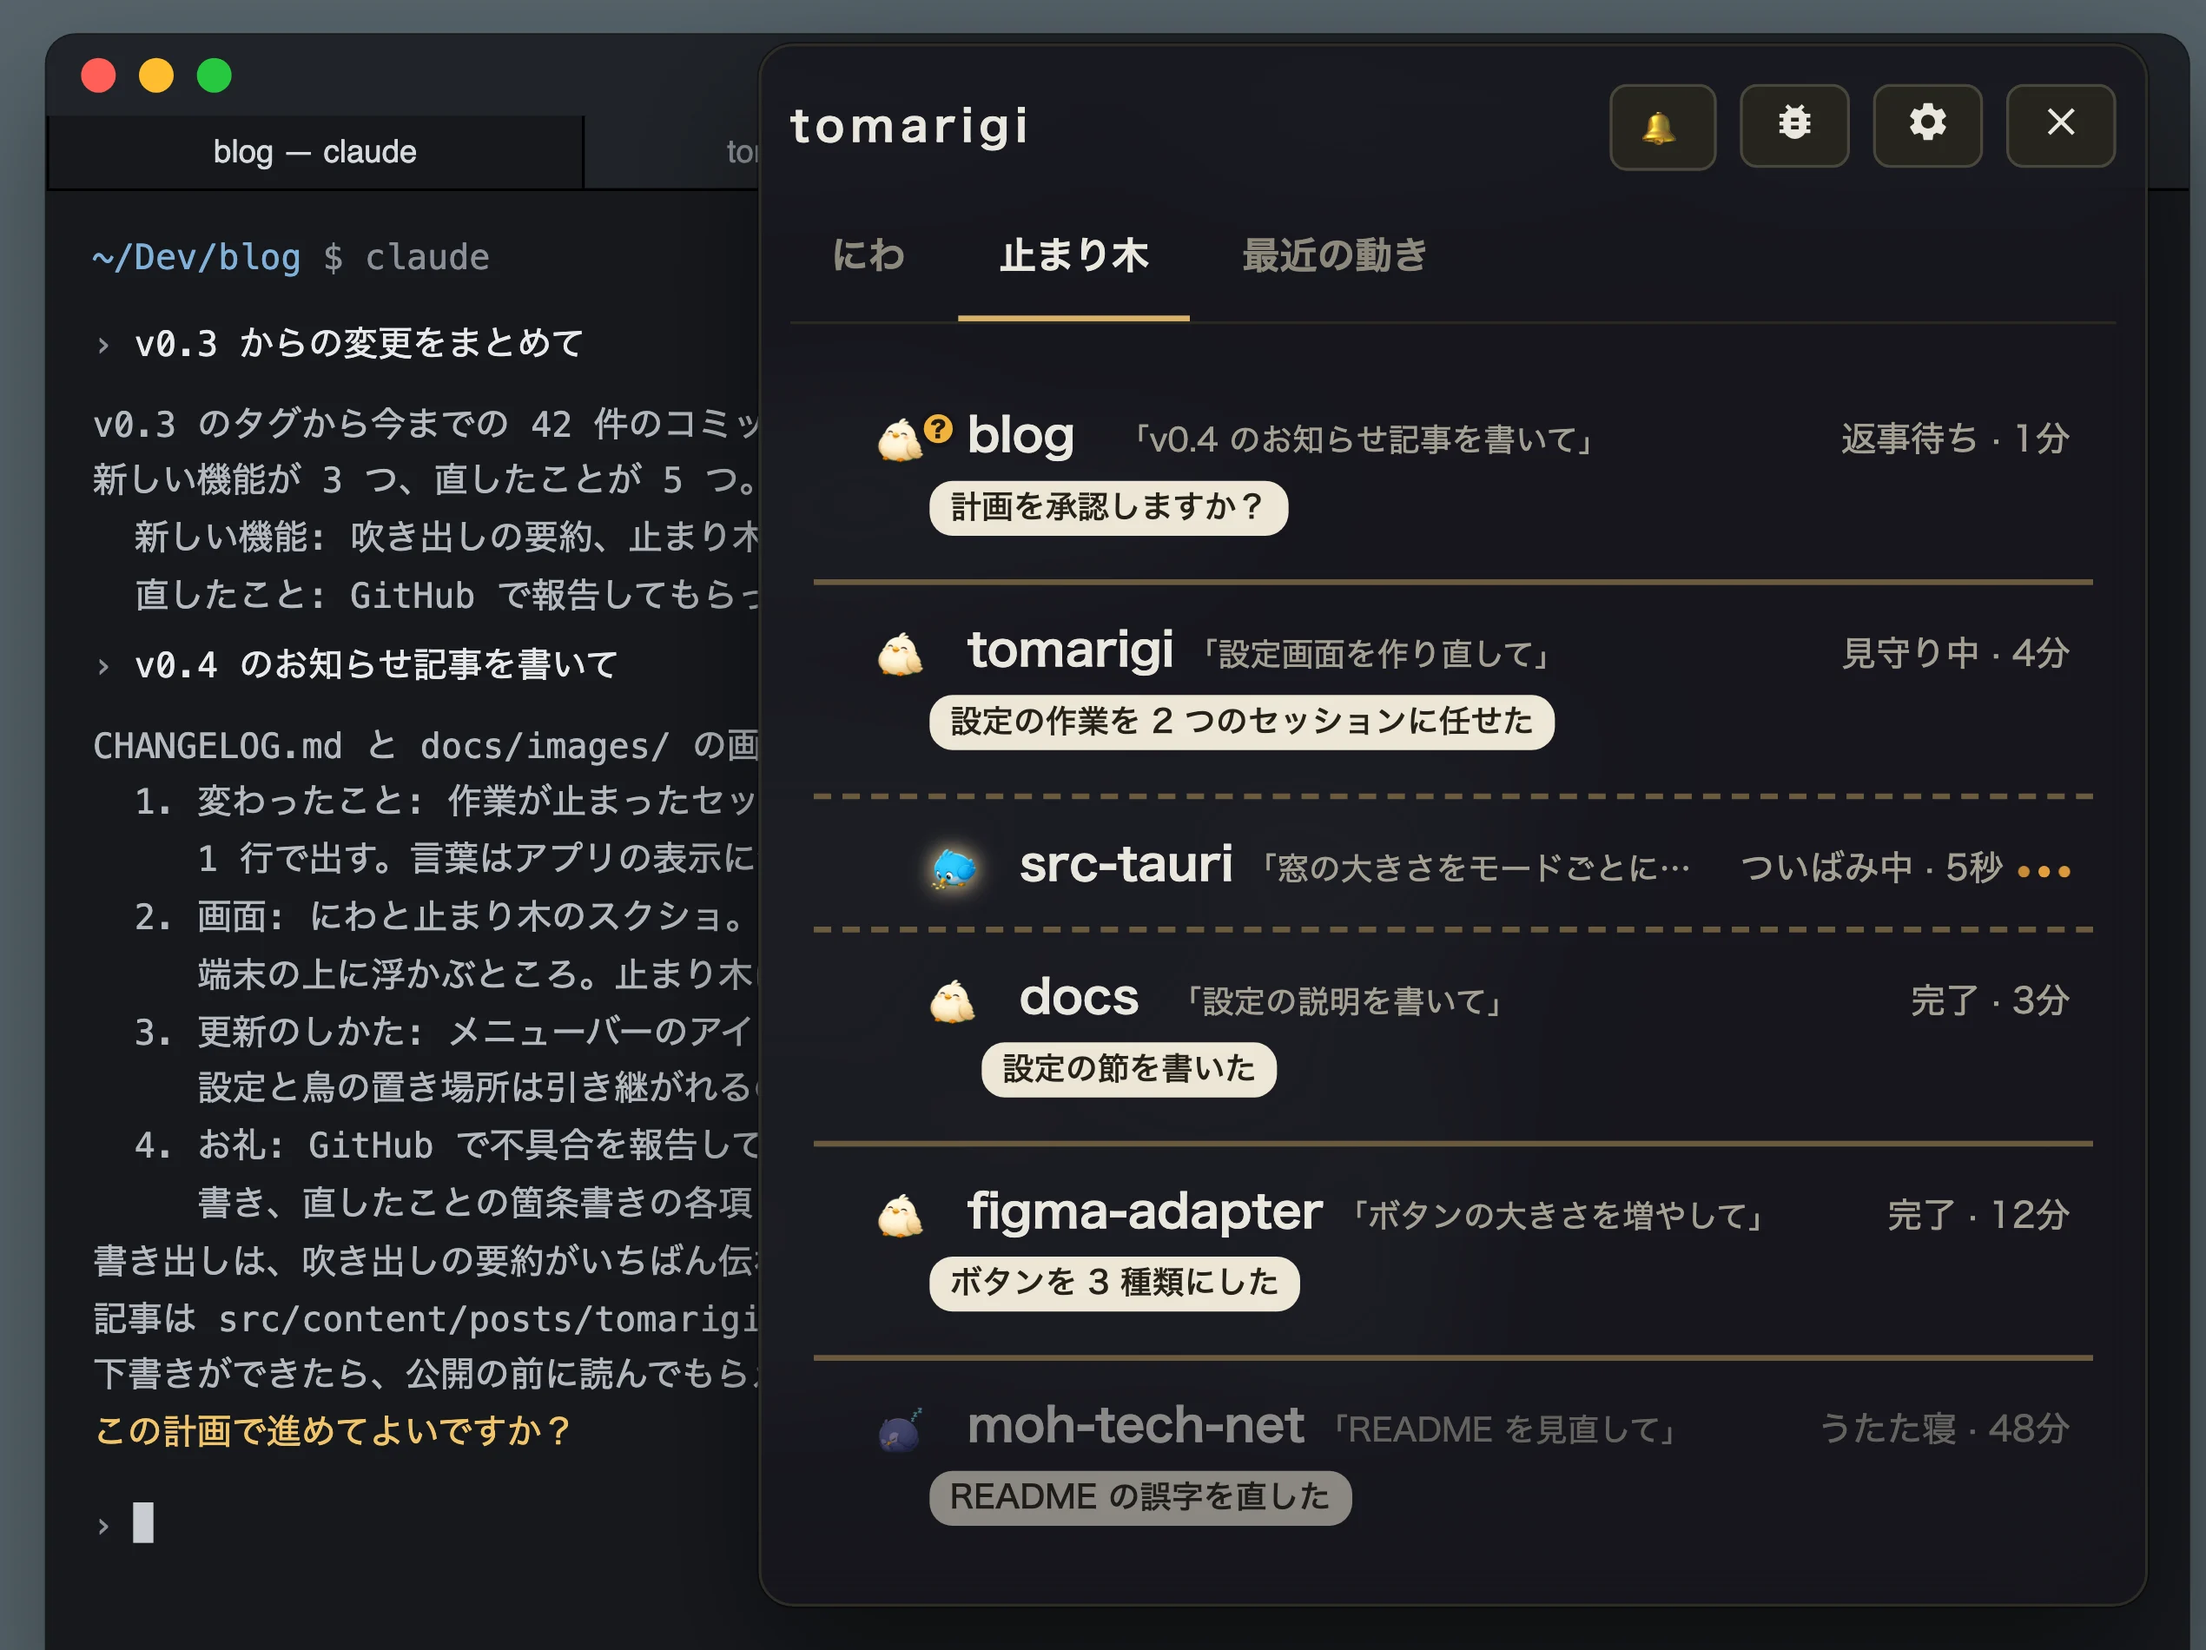
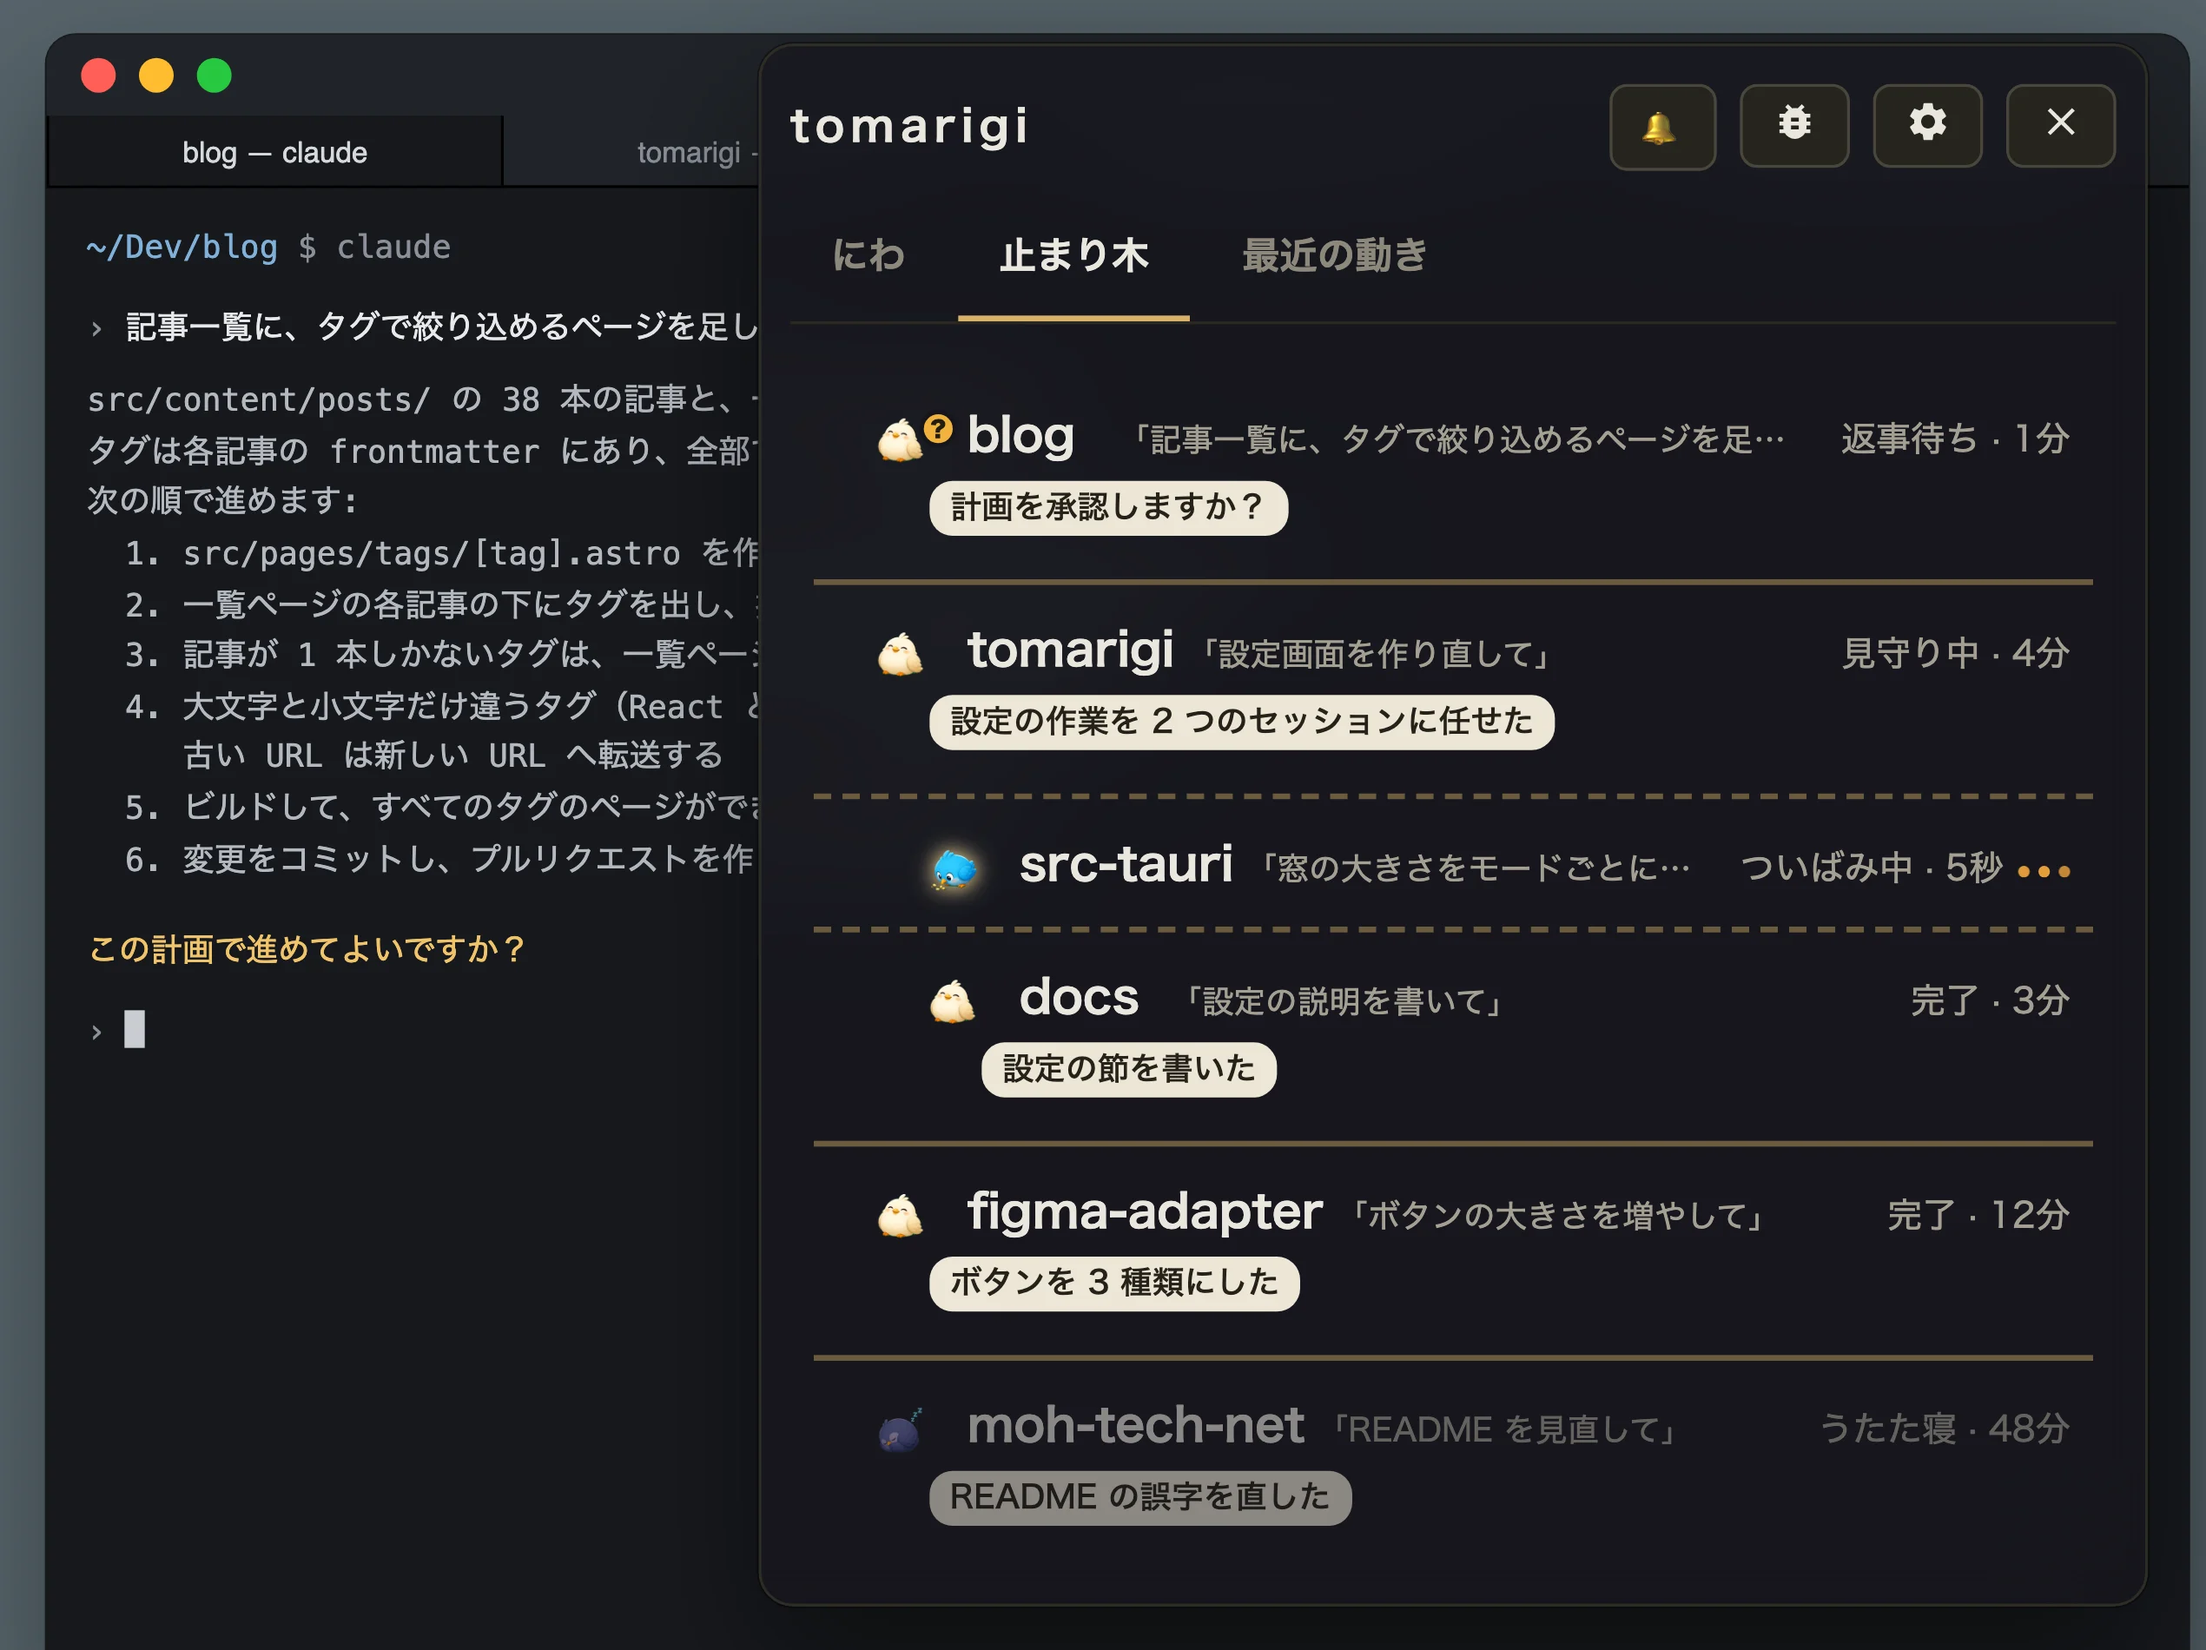
ギャラリー: にわを端末の窓ごと小さく撮り、3 枚の会話をふつうの作業にする
文字と鳥だけの切り抜きでは、ページの本文と見分けがつかなかった。
1 枚目の舞台を端末の窓とせまい余白だけ（520x386 CSS px、1733x1287）にして、
ダウンロードページが切り抜かずに窓ごと出せるようにする。幅 680px で
吹き出しの文字は約 14px になる。端末の文字は 11px にし、色は変えない。
blog セッションの会話を「タグのページを足す」作業にし、最後の質問を
「?」の鳥の吹き出しと対応させる。モックの blog の依頼文も同じにそろえる。
撮影中は api.github.com への要求を止める。

Changed region(s): [[0.0311, 0.0621, 0.3421, 0.9316], [0.5287, 0.2484, 0.8087, 0.2795], [0.2488, 0.0932, 0.3421, 0.1242]]

diff --git a/src/perch/mock-presets.ts b/src/perch/mock-presets.ts
@@ -796,7 +796,8 @@ const GALLERY: SessionView[] = [
     // A whole minute, so Perch and Recent activity both say 1m whenever in the minute the shot is taken
     sinceMs: 60_000,
     toolName: "ExitPlanMode",
-    snippet: tr("Write the v0.4 release post", "v0.4 のお知らせ記事を書いて"),
+    // The ask the blog session's terminal shows (scripts/gallery/stage.mjs)
+    snippet: tr("Add pages that list posts by tag", "記事一覧に、タグで絞り込めるページを足して"),
   },
   { id: "gallery/working", project: "tomarigi", slug: "tomarigi", state: "working", sinceMs: 3_000 },
   {

diff --git a/docs/design.md b/docs/design.md
@@ -98,11 +98,11 @@ A desktop app for macOS, Windows, and Linux (Tauri 2; see "Platforms") that watc
   2. Perch: with many sessions, one list shows each one's state and summary, and sessions handed work by another are indented under it
   3. Recent activity: what finished or started waiting, newest first, so what was missed can be found later
   - The earlier Garden shots ("one bird per session", the "?", the summary bubble) are dropped: they were the same window with a different thing to look at, and the first image already shows all three. Perch and Recent activity were not in the gallery before, and no reason was recorded (the user asked 「gardenいがいのたぶのしょうかいはなんでいれてないの？」). Perch and Recent activity are never faded, so their shots have the window background
-  - They are shot with `scripts/gallery/shoot.mjs`, which opens the mock in a browser (`bun run dev:web`, or a `vite build` served through Playwright with `DIST=`; `?mock=1&panel=0&preset=<gallery preset>`) in a frame over a desktop with a terminal, and sets the browser's language for each set. A browser rather than the app window, so the shots don't depend on the screen they are taken on and the language can be switched without changing the computer's (Claude's own decision). The frosted glass is drawn by the stage page with CSS. The birds' project names match the terminal's tabs, and the download page crops the first image to the birds and their bubbles (below)
+  - They are shot with `scripts/gallery/shoot.mjs`, which opens the mock in a browser (`bun run dev:web`, or a `vite build` served through Playwright with `DIST=`; `?mock=1&panel=0&preset=<gallery preset>`) in a frame over a desktop with a terminal, and sets the browser's language for each set. A browser rather than the app window, so the shots don't depend on the screen they are taken on and the language can be switched without changing the computer's (Claude's own decision). The frosted glass is drawn by the stage page with CSS. The birds' project names match the terminal's tabs, and the download page shows the first image whole (below)
   - One set per language: English (app UI in English) for README.md and the English page, Japanese (app UI in Japanese) for README.ja.md and the Japanese page. Reviewers of the Japanese page flagged the English text in the images more than once (Claude's own decision to make a Japanese set)
   - No title text is baked into the image. The caption is written next to the image (README table cell, page HTML) so it can be translated and changed without reshooting (Claude's own decision)
-  - All three share the same background and the same scale of the app window, so they read as one set side by side (Claude's own decision)
-  - The mock data names the agents the app supports today (not only Claude Code and Codex): the terminal behind the window has four tabs running Claude Code, Codex, Gemini CLI, and OpenCode, each in the folder of one of the birds (the Garden itself doesn't show which agent a bird is). The open tab is the blog session, whose question matches the blog bird's bubble; a reviewer read a bird drawn over another session's text as that session's bird when the terminal showed four panes. They are put at saved (dragged) positions, left to right the "?", the working one, the done one, since the grid put the working bird against the "?" bird and the three read as cramped (the user: 「なおして」). They were then in one row across the window, which left most of the window empty and made them small in the download page's hero (the user: 「ダウンロードページのheroはたしかにちいさくみえるなしゅうせいして」). Now they take as little width as the garden allows without moving them: the garden keeps each bird's footprint (a bubble's 180px) 12px from the next, so the "?" and the done bird sit side by side and the working one, which has no bubble, sits above between them. The window is just wide enough for that. The arrangement and the sizes are Claude's own decision. The birds and their bubbles sit over the terminal's text, which runs on behind them on every side. The birds were first put on the empty part of the terminal below its text, since reviewers read birds over text as a broken screen; the download page's hero then showed only the birds over an empty background, and it told neither that they float over the terminal nor what the app is (the user, on that crop: 「あたらしいすくしょは、これだとわからんよ」; then, on Claude's proposal to run the text on behind the birds: 「ちゃんともじにかぶるようにはいちしろよ」). The blog session's plan is written in long lines that run past the birds on both sides, and the conversation fills the pane down to the prompt, so the space under the handle is text too. The text is what the session would print next in that conversation, in each set's language. The download page crops the first image to the birds and their bubbles with the text around them; in the 2540x1900 image the birds and bubbles take x 355–1500, y 1017–1407 (English) and x 350–1505, y 1038–1404 (Japanese). The working bird has no bubble: bubbles show only for a stopped turn or a question, so the image shows only its working glow. The text in the bubbles follows the UI language; tool names aren't shown, since they are English in every language
+  - All three share the same background and are shot at the same scale (3.33 image px per CSS px), so the app window is the same size in each (Claude's own decision). Perch and Recent activity are 2540x1900 with the terminal running past their right and bottom edges; the first image is only the terminal window and a narrow margin, 1733x1287 (below)
+  - The mock data names the agents the app supports today (not only Claude Code and Codex): the terminal behind the window has four tabs running Claude Code, Codex, Gemini CLI, and OpenCode, each in the folder of one of the birds (the Garden itself doesn't show which agent a bird is). The open tab is the blog session, whose question matches the blog bird's bubble; a reviewer read a bird drawn over another session's text as that session's bird when the terminal showed four panes. They are put at saved (dragged) positions, left to right the "?", the working one, the done one, since the grid put the working bird against the "?" bird and the three read as cramped (the user: 「なおして」). They were then in one row across the window, which left most of the window empty and made them small in the download page's hero (the user: 「ダウンロードページのheroはたしかにちいさくみえるなしゅうせいして」). Now they take as little width as the garden allows without moving them: the garden keeps each bird's footprint (a bubble's 180px) 12px from the next, so the "?" and the done bird sit side by side and the working one, which has no bubble, sits above between them. The window is just wide enough for that. The arrangement and the sizes are Claude's own decision. The birds and their bubbles sit over the terminal's text, which runs on behind them on every side. The birds were first put on the empty part of the terminal below its text, since reviewers read birds over text as a broken screen; the download page's hero then showed only the birds over an empty background, and it told neither that they float over the terminal nor what the app is (the user, on that crop: 「あたらしいすくしょは、これだとわからんよ」; then, on Claude's proposal to run the text on behind the birds: 「ちゃんともじにかぶるようにはいちしろよ」, and on whether to dim it: 「くらくしなくていいよ」). The hero then cropped the image to the text and the birds without the terminal's frame, and the text alone read as the page's own text (the user: 「あのさ、もじだけやとぺーじとくべつつかんやろなにかんがえてんねんほんまなんでたーみなるうぃんどうけしてんねんぼけ」): the window's frame, the three title bar lights, and the tabs are what tell that the birds float over a terminal. So the first image is the whole terminal window, small, with a narrow margin, and the download page shows it without cropping: in the 1733x1287 image the window takes x 32–1700, y 32–1253 in both languages. Its stage is 520x386 CSS px, so the bubbles' 11px text shows at about 14px where the page's PC column (about 680px) shows the image whole (Claude's own decision). The terminal's text is 11px, the size of a real terminal's, in the same colors as before, so the birds with their glow and light bubbles stand out over it. The blog session's conversation is an ordinary task (pages that list posts by tag): an earlier one was about writing a post with screenshots of this app, which read like the shoot's own notes showing through. It ends in the plan's question, which the "?" bird's bubble asks, with a blank line before it so the bubble doesn't cover it; the plan's lines run past the birds on both sides. The blog session's ask in the mock data (Perch, Recent activity) is the terminal's first ask, and the second and third images show the same conversation behind the glass. The working bird has no bubble: bubbles show only for a stopped turn or a question, so the image shows only its working glow. The text in the bubbles follows the UI language; tool names aren't shown, since they are English in every language
 - The × at the right end of the header hides the window (bring it back from the menu bar icon). Its label says "hide window", not "close", so it isn't mistaken for leaving settings or a dialog
 - The header and the row under it (the tabs, or the settings bar while in settings) stay at the top; only the content below them scrolls. The add-folder dialog follows the same rule: its title and × stay in view and only its content scrolls
 - The debug log is a screen like settings: it replaces the tabs' content under the header (the header buttons stay), shows a "‹ Back" row in place of the tabs, and closes with Back, the debug button again, or Esc. Settings and the debug log are never open at the same time
